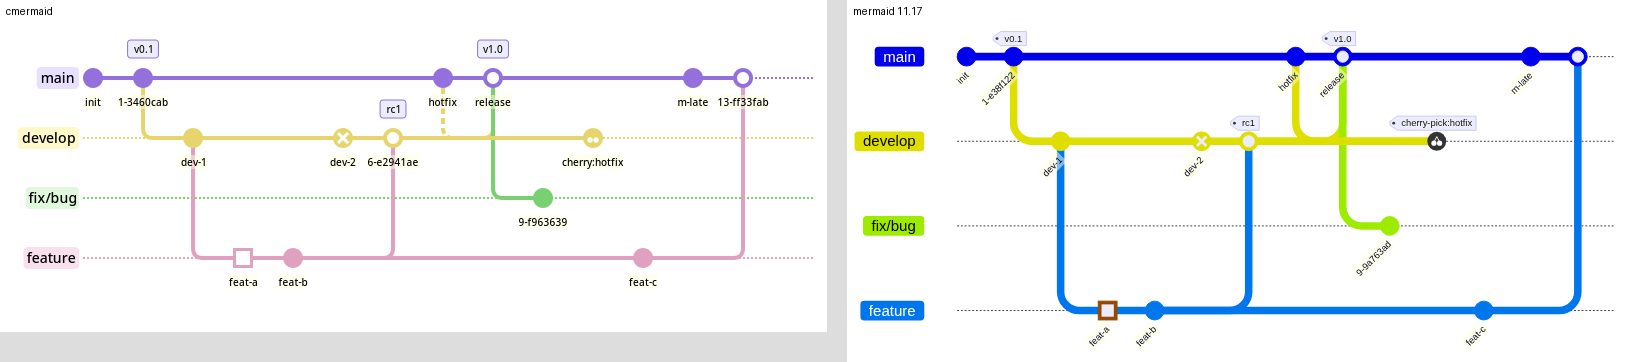
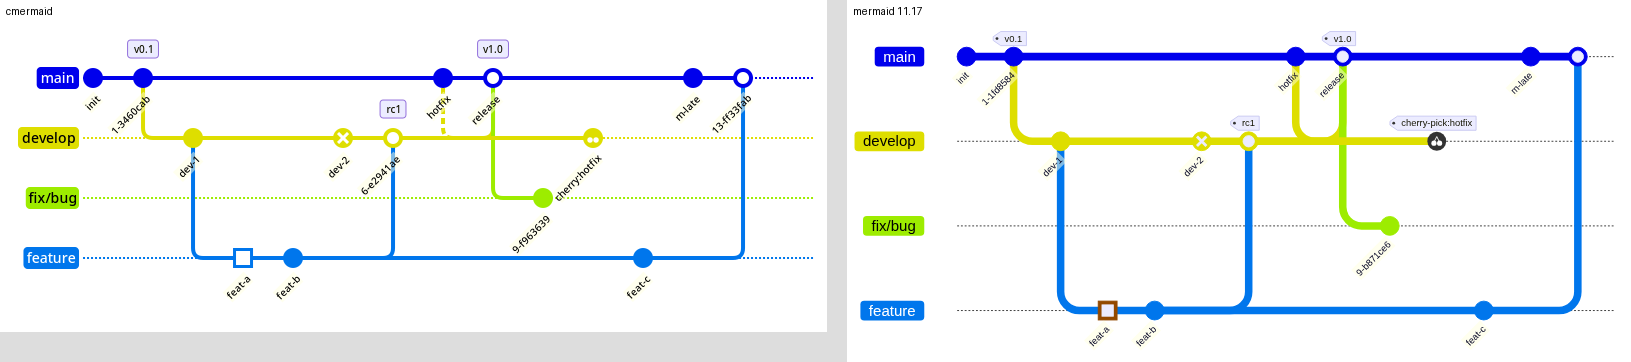
gitgraph: mermaid 11 palette, coloured branch labels, rotated commit labels, thick arrows / thin grey lanes

diff --git a/src/d_gitgraph.c b/src/d_gitgraph.c
@@ -13,12 +13,13 @@ typedef struct Commit { Str id, tag, msg; uint32_t lane, p1, p2; uint8_t type; }
 typedef struct Branch { Str name; double order; uint32_t head, idx; bool has_head; } Branch;
 
 static constexpr char CSS[] =
-    "#mermaid .bl{stroke-width:2px;stroke-dasharray:2 2;}#mermaid .ar{fill:none;stroke-width:4px;}"
+    "#mermaid .bl{stroke:#333;stroke-width:1px;stroke-dasharray:2;}#mermaid .ar{fill:none;stroke-width:8px;stroke-linecap:round;}"
     "#mermaid .cl{font-size:10px;fill:#000;}#mermaid .clb{fill:#ffffde;opacity:0.5;}"
-    "#mermaid .bn{font-size:14px;fill:#000;}#mermaid .tg{font-size:10px;fill:#131300;}"
+    "#mermaid .bn{font-size:14px;fill:#000;}#mermaid .bnx{fill:inherit;}#mermaid .tg{font-size:10px;fill:#131300;}"
     "#mermaid .tgb{fill:#ECECFF;stroke:#9370DB;stroke-width:1px;}#mermaid .ttl{font-size:18px;}";
-static const char *const COL[] = {"#9370DB", "#e6d46c", "#78d070", "#e0a0c0", "#70b0e8", "#e08850", "#70d0c8", "#b07ae0"};
-static const char *const LCOL[] = {"#e8e0ff", "#fff8c8", "#e0f8dc", "#f8e0ec", "#ddeefa", "#fbe5d6", "#ddf6f4", "#efe2fb"};
+/* mermaid 11 default theme git0..git7 (hsl(h, 100%, 46.27%)) and their branch-label text colours */
+static const char *const COL[] = {"#0000ec", "#dede00", "#9dec00", "#0076ec", "#00ecec", "#00ec76", "#ec00ec", "#ec0000"};
+static const char *const LTXT[] = {"#fff", "#000", "#000", "#fff", "#000", "#000", "#000", "#000"};
 
 typedef struct Attr { Str id, tag, msg, parent; uint8_t type; double order; bool has_type, has_order; } Attr;
 static bool attrs(Str s, Attr *at) {
@@ -169,7 +170,9 @@ DIAG_FN(gitgraph_render) {
     double qlen = q0 + (double)br.n * lanesep;
 #define PX(p, q) (dir == 0 ? (p) : (q))
 #define PY(p, q) (dir == 0 ? (q) : dir == 1 ? (p) : plen - (p))
-    BBox bb = dir == 0 ? (BBox){0, 0, plen, qlen + 10} : (BBox){0, title.n ? -40 : 0, qlen, plen};
+    double hang = 10; /* rotated commit labels hang below the last lane */
+    for (size_t i = 0; i < cm.n; i++) if (lane[cm.v[i].lane] + 1 == (double)br.n || br.n == 0) hang = fmax(hang, text_width(cm.v[i].id, 10) * 0.72 + 8 - lanesep / 2);
+    BBox bb = dir == 0 ? (BBox){0, 0, plen, qlen + hang} : (BBox){0, title.n ? -40 : 0, qlen, plen};
     if (!buf_reserve(out, 4096 + cm.n * 900)) return CMM_ERR_NOMEM;
     DG_HEAD(out, bb, 4, "gitGraph", CSS);
     if (title.n) dg_text(out, title, 18, dir == 0 ? plen / 2 : qlen / 2, dir == 0 ? 20 : -20, "middle", "ttl");
@@ -183,8 +186,10 @@ DIAG_FN(gitgraph_render) {
         buf_lit(out, "\"/>");
         double tw = text_width(br.v[b].name, 14);
         double lx = dir == 0 ? p0 - 20 - tw : q - tw / 2, ly = dir == 0 ? q : (dir == 1 ? p0 - 35 : plen - p0 + 35);
-        dg_rect_fill(out, lx - 6, ly - 11, tw + 12, 22, 4, nullptr, LCOL[lane[b] % countof(LCOL)]);
-        dg_text(out, br.v[b].name, 14, lx + tw / 2, ly, "middle", "bn");
+        dg_rect_fill(out, lx - 6, ly - 11, tw + 12, 22, 4, nullptr, col);
+        buf_lit(out, "<g fill=\""); buf_put(out, strlen(LTXT[lane[b] % countof(LTXT)]), LTXT[lane[b] % countof(LTXT)]); buf_lit(out, "\">");
+        dg_text(out, br.v[b].name, 14, lx + tw / 2, ly, "middle", "bn bnx");
+        buf_lit(out, "</g>");
     }
     /* connections */
     for (size_t i = 0; i < cm.n; i++) {
@@ -262,9 +267,17 @@ DIAG_FN(gitgraph_render) {
         }
         Str lab = c->id;
         double tw = text_width(lab, 10);
-        double lx = dir == 0 ? x : x + R + 6 + tw / 2, ly = dir == 0 ? y + R + 14 : y;
-        dg_rect_fill(out, lx - tw / 2 - 2, ly - 7, tw + 4, 14, 0, "clb", nullptr);
-        dg_text(out, lab, 10, lx, ly, "middle", "cl");
+        if (dir == 0) { /* mermaid rotateCommitLabel (default on): label hangs down-left at -45 degrees */
+            double ax = x + 4, ay = y + R + 10;
+            buf_lit(out, "<g transform=\"rotate(-45 "); buf_num(out, ax); buf_ch(out, ' '); buf_num(out, ay); buf_lit(out, ")\">");
+            dg_rect_fill(out, ax - tw - 2, ay - 7, tw + 4, 14, 0, "clb", nullptr);
+            dg_text(out, lab, 10, ax - tw / 2, ay, "middle", "cl");
+            buf_lit(out, "</g>");
+        } else {
+            double lx = x + R + 6 + tw / 2, ly = y;
+            dg_rect_fill(out, lx - tw / 2 - 2, ly - 7, tw + 4, 14, 0, "clb", nullptr);
+            dg_text(out, lab, 10, lx, ly, "middle", "cl");
+        }
         if (c->tag.n) {
             double gw = text_width(c->tag, 10) + 12;
             double gx = dir == 0 ? x - gw / 2 : x - R - 8 - gw, gy = dir == 0 ? y - R - 28 : y - 9;
